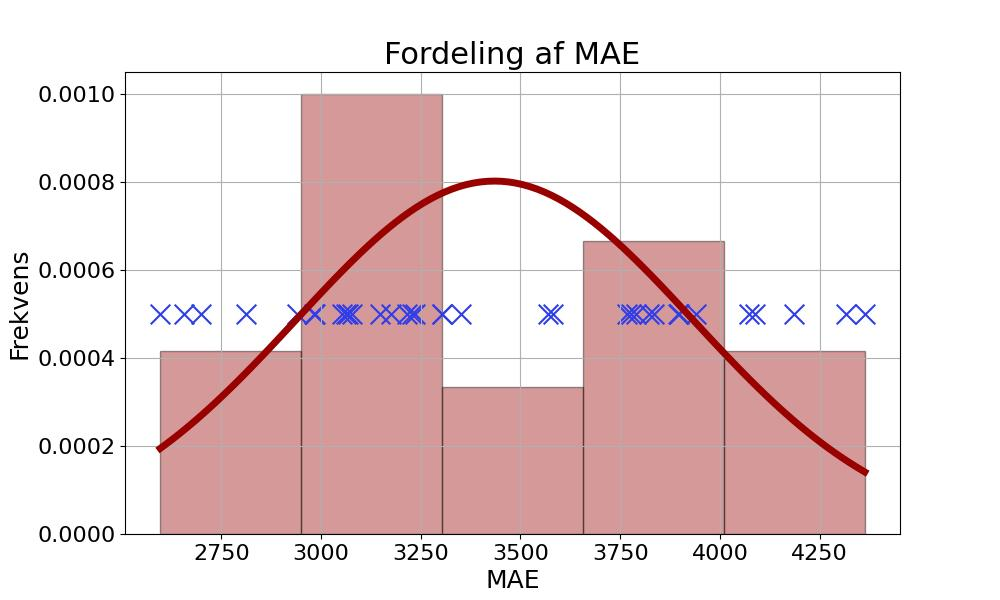
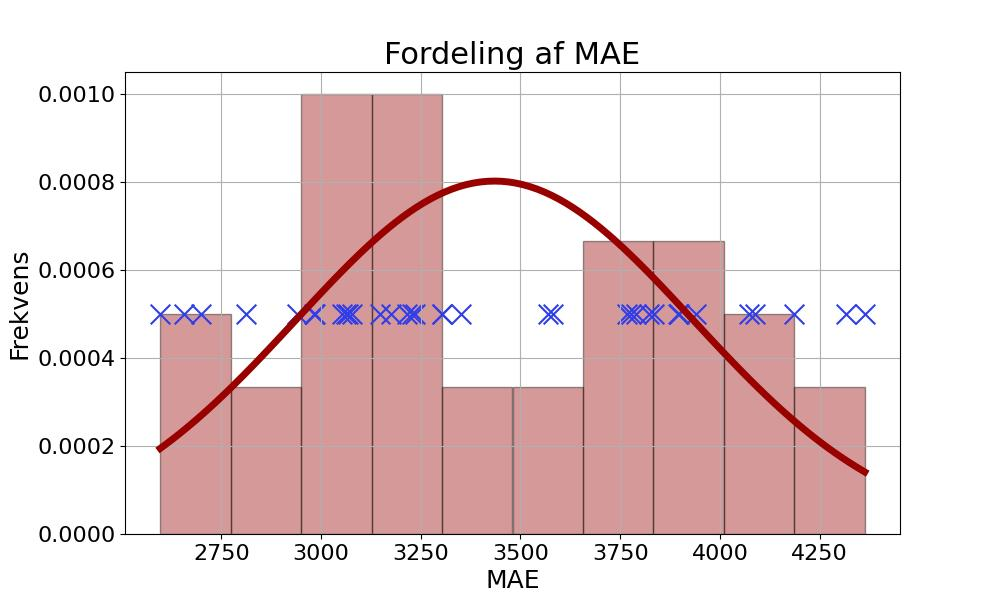
ændringer

Changed region(s): [[0.713, 0.51, 0.868, 0.66], [0.155, 0.51, 0.31, 0.66]]

diff --git a/src/visualization/eskp2/fordeling_af_MAE.py b/src/visualization/eskp2/fordeling_af_MAE.py
@@ -1,7 +1,7 @@
 import shutil
 import os
 import matplotlib.pyplot as plt
-import farver
+import src.visualization.farver as farver
 import viz0
 import pandas as pd
 from tqdm import tqdm
@@ -25,22 +25,24 @@ for group in tqdm(groups):
     for temperatur in temperaturer:
         for seed in seeds:
             runs_filtered = list(filter(lambda w: viz0.main_filter(w, temperatur, fortræningsudgave, seed), runs_in_group))
+            col = 'test_loss_mean'
             df = viz0.get_df(runs_filtered)
             df = df.apply(pd.to_numeric, errors='coerce')
             df = df.dropna(how='any')
+            # df[col] = np.log(df[col])
             prefix = f'{fortræningsudgave}'
 
-            mean = df['test_loss_mean'].mean()
-            std_dev = df['test_loss_mean'].std()
+            mean = df[col].mean()
+            std_dev = df[col].std()
 
-            x = np.linspace(df['test_loss_mean'].min(), df['test_loss_mean'].max(), 100)
+            x = np.linspace(df[col].min(), df[col].max(), 100)
             fit = norm.pdf(x, mean, std_dev)
 
             plt.figure(figsize=(10, 6))
 
-            bins = 5
-            plt.hist(df['test_loss_mean'], bins=bins, density=True, alpha=0.4, color=farver.rød, edgecolor='black')  # Histogram
-            plt.scatter(x=df['test_loss_mean'], y=[0.0005]*len(df), color=farver.blå, marker='x', s=200)
+            bins = 10
+            plt.hist(df[col], bins=bins, density=True, alpha=0.4, color=farver.rød, edgecolor='black')  # Histogram
+            plt.scatter(x=df[col], y=[0.0005]*len(df), color=farver.blå, marker='x', s=200)
 
             plt.plot(x, fit, farver.rød, label='Normalfordeling', linewidth=5)  # Fittet normalfordeling
             plt.xlabel("MAE", fontsize=18)

diff --git a/src/visualization/eskp2/testusik.py b/src/visualization/eskp2/testusik.py
@@ -2,13 +2,15 @@ import shutil
 import os
 import matplotlib.pyplot as plt
 from matplotlib.ticker import ScalarFormatter
-from farver import farver
+from src.visualization.farver import farver
 import viz0
 import pandas as pd
 from tqdm import tqdm
 
-if os.path.exists("eksp2_logs"):
-    shutil.rmtree("eksp2_logs")
+ROOT = 'reports/figures/Eksperimenter/2/testusik'
+
+if os.path.exists(ROOT):
+    shutil.rmtree(ROOT)
 
 LABELLER = {'uden': 'Ingen fortræning',
             'Selvvejledt': '3D-EMGP',
@@ -18,7 +20,7 @@ LABELLER = {'uden': 'Ingen fortræning',
 groups, runs = viz0.get_groups_runs('eksp2')
 for group in tqdm(groups):
     runs_in_group, fortræningsudgaver, temperaturer, seeds, rygrad_runids = viz0.get_loops_params(group, runs)
-    kørsel_path = os.path.join("eksp2_logs", group)
+    kørsel_path = os.path.join(ROOT, group)
     os.makedirs(kørsel_path)
     for temperatur in temperaturer:
         ncols = 3
@@ -60,7 +62,7 @@ for group in tqdm(groups):
 
         plt.tight_layout()
         for ext in ['jpg', 'pdf']:
-            plt.savefig(os.path.join(kørsel_path, f"{temperatur}_puljet.{ext}"))
+            plt.savefig(os.path.join(kørsel_path, f"{temperatur}_testusik.{ext}"))
         plt.close()
 
 

diff --git a/src/visualization/eskp2/ren.py b/src/visualization/eskp2/ren.py
@@ -1,7 +1,7 @@
 import shutil
 import os
 import matplotlib.pyplot as plt
-from farver import  farver
+from src.visualization.farver import farver
 import pandas as pd
 from tqdm import tqdm
 from matplotlib.ticker import ScalarFormatter
@@ -14,17 +14,18 @@ LABELLER = {'uden': 'Ingen fortræning',
             'Selvvejledt': '3D-EMGP',
             'SelvvejledtQM9': 'snydefortræning'}
 
+ROOT = 'reports/figures/Eksperimenter/2/ren'
 
 
-if os.path.exists("eksp2_logs"):
-    shutil.rmtree("eksp2_logs")
+if os.path.exists(ROOT):
+    shutil.rmtree(ROOT)
 
 groups, runs = viz0.get_groups_runs('eksp2')
 for group in tqdm(groups):
     # if group not in ['eksp2_47', 'eksp2_48', 'eksp2_67', 'eksp2_68', 'eksp2_75']:
     #     continue
     runs_in_group, fortræningsudgaver, temperaturer, seeds, rygrad_runids = viz0.get_loops_params(group, runs)
-    kørsel_path = os.path.join("eksp2_logs", group)
+    kørsel_path = os.path.join(ROOT, group)
     os.makedirs(kørsel_path)
     for temperatur in temperaturer:
         plt.figure(figsize=(10, 6))
